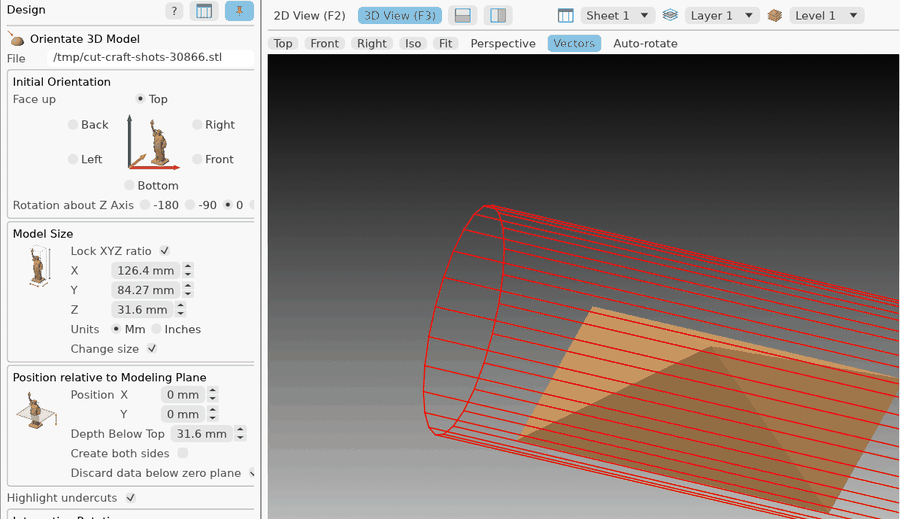
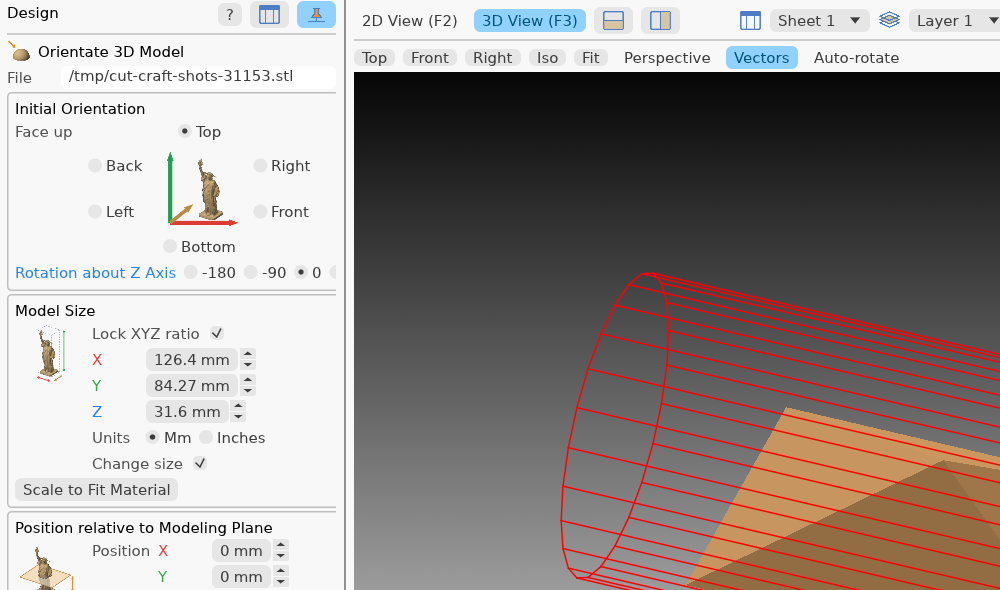
feat: Scale to Fit Material sits under Change size in Model Size
The button moves from the foot of Import 3D Model's form into the Model Size
section, right under the Change size tick that unlocks it. Still greyed until
Change size is ticked. Help page and its picture updated.

Claude-Session: https://claude.ai/code/session_01Uqr4BJ5ueU3wpdeD68Mnmg

diff --git a/crates/app/src/app/command_form.rs b/crates/app/src/app/command_form.rs
@@ -101,7 +101,10 @@ impl CutCraftApp {
             }
         };
         let stock = form_stock(&self.doc, &open.params, units, bed(&self.machines));
+        // Scale to Fit Material is pressed inside Model Size, and worked out once it is drawn
+        let fit_asked = std::cell::Cell::new(false);
         let group_end = |ui: &mut egui::Ui, group: &str, params: &mut Value| {
+            fit_asked.set(fit_asked.get() | scale_to_fit_button(ui, group, params));
             super::tabs::group_end(ui, group, params, stock)
                 | super::placement::section_end(ui, group, params, room)
                 | super::placement::reset_end(ui, group, params)
@@ -119,6 +122,9 @@ impl CutCraftApp {
         // Trace Bitmap's settings are in its trace window, beside the preview
         if open.id != "trace_bitmap" {
             open.dirty |= show_form(ui, open, &look, &self.doc.job, &icon);
+            if fit_asked.get() {
+                open.dirty |= scale_to_fit(open, &self.doc.job);
+            }
         }
         open.dirty |= listed.get();
         self.form_extras(ui, form_id);
@@ -680,33 +686,37 @@ pub(super) fn show_form(
     // what the pointer was on last frame; the fields note it again this frame
     form::forget_help(ui.ctx());
     let changed = form::show(ui, &open.fields, &mut open.params, look);
-    changed
-        | align_in_material(ui, open, job, icon)
-        | update_undercuts(ui, open)
-        | scale_to_fit(ui, open, job)
+    changed | align_in_material(ui, open, job, icon) | update_undercuts(ui, open)
 }
 
-/// Import 3D Model's Scale to Fit Material, the form's last choice: the model scaled once
-/// to be as big as the material allows, turned as it is now, and kept at that scale while
-/// it is turned after. Greyed until Change size is ticked, so the size never changes
-/// unseen; true when clicked.
-pub(super) fn scale_to_fit(
-    ui: &mut egui::Ui,
-    open: &mut OpenForm,
-    job: &cut_craft_core::document::Job,
-) -> bool {
-    if open.id != "orientate_3d_model" {
+/// The Model Size section that holds Import 3D Model's Scale to Fit Material.
+pub(super) const SIZE_SECTION: &str = "Model Size";
+
+/// Import 3D Model's Scale to Fit Material, at the foot of Model Size just under the
+/// Change size tick that unlocks it. Greyed until Change size is ticked, so the size never
+/// changes unseen; true when clicked, for [`scale_to_fit`] to do once the form is drawn.
+pub(super) fn scale_to_fit_button(ui: &mut egui::Ui, section: &str, params: &Value) -> bool {
+    if section != SIZE_SECTION {
         return false;
     }
-    let unlocked = open.params["size"]["change_size"]
-        .as_bool()
-        .unwrap_or(false);
-    let clicked = ui
-        .add_enabled(unlocked, egui::Button::new(tr!("scale-to-fit")))
+    let Some(unlocked) = params
+        .get("size")
+        .and_then(|s| s.get("change_size"))
+        .and_then(Value::as_bool)
+    else {
+        return false;
+    };
+    ui.add_enabled(unlocked, egui::Button::new(tr!("scale-to-fit")))
         .on_hover_hint(tr!("scale-to-fit.tooltip"))
         .on_disabled_hover_text(tr!("scale-to-fit.disabled"))
-        .clicked();
-    if !clicked {
+        .clicked()
+}
+
+/// Import 3D Model's Scale to Fit Material, once its button is pressed: the model scaled
+/// once to be as big as the material allows, turned as it is now, and kept at that scale
+/// while it is turned after. True when the size changed.
+pub(super) fn scale_to_fit(open: &mut OpenForm, job: &cut_craft_core::document::Job) -> bool {
+    if open.id != "orientate_3d_model" {
         return false;
     }
     let doc = cut_craft_core::document::Document {

diff --git a/crates/app/src/app/tests/rotary.rs b/crates/app/src/app/tests/rotary.rs
@@ -79,9 +79,28 @@ fn an_imported_model_shows_whole_on_the_bed_sized_in_three_with_the_rotary_choic
     // the placing is on the same page, Center model left to the alignment buttons
     assert!(h.scroll_to(over, "Depth Below Top").is_some());
     assert!(h.text_at("Center model").is_none());
+    // Scale to Fit Material sits in Model Size, just under the Change size tick that
+    // unlocks it, before the next section starts
     let fit = h.scroll_to(over, "Scale to Fit Material").unwrap();
-    let undercuts = h.text_at("Update Undercuts").unwrap();
-    assert!(fit.y > undercuts.y, "the last choice on the form");
+    let tick = h.text_at("Change size").unwrap();
+    let next = h.text_at("Position relative to Modeling Plane").unwrap();
+    assert!(
+        tick.y < fit.y && fit.y < next.y,
+        "beside Change size: {tick:?} {fit:?} {next:?}"
+    );
+    // greyed while the size is locked: a click there leaves the size alone
+    let scale = |h: &Harness| h.app.form.as_ref().unwrap().params["size"]["scale"].clone();
+    let before = scale(&h);
+    h.click(fit, Modifiers::NONE);
+    h.frame(vec![]);
+    assert_eq!(scale(&h), before, "locked until Change size is ticked");
+    // ticked, the same button scales the model to the material once
+    h.app.form.as_mut().unwrap().params["size"]["change_size"] = Value::Bool(true);
+    h.frame(vec![]);
+    let fit = h.text_at("Scale to Fit Material").unwrap();
+    h.click(fit, Modifiers::NONE);
+    h.frame(vec![]);
+    assert_ne!(scale(&h), before, "scaled to fit the material");
     for label in ["Imported model type", "Offered"] {
         assert_eq!(h.text_at(label), None, "{label} is not shown");
     }

diff --git a/crates/help/pages/tools/orientate_3d_model.md b/crates/help/pages/tools/orientate_3d_model.md
@@ -101,19 +101,20 @@ Material button again to go back to lining it up.
 A model comes in at the size its file says. Its size is **locked**, so turning it or
 nudging a setting never resizes it without you knowing:
 
-1. Under **Model Size**, tick **Change size**. Until you do, X, Y, Z and **Lock XYZ
-   ratio** are greyed out, and so is the button at the foot of the form.
+1. Under **Model Size**, tick **Change size**. Until you do, X, Y, Z, **Lock XYZ ratio**
+   and the **Scale to Fit Material** button just under the tick are greyed out (point at
+   the button and it says to tick Change size first).
 2. Either type a new **X**, **Y** or **Z** (with Lock XYZ ratio ticked the other two
-   follow), or press **Scale to Fit Material**, the last button on the form. It makes the
-   model as big as the material allows (on a rotary job, as long as the job and out to
-   the material's radius), turned the way it is now.
+   follow), or press **Scale to Fit Material**, right under **Change size** in the same
+   box. It makes the model as big as the material allows (on a rotary job, as long as the
+   job and out to the material's radius), turned the way it is now.
 3. Untick **Change size** to lock the new size in.
 
 Either way the model is scaled **once**. Turn it afterwards with **Interactive Rotation**
 and it keeps that size: it is not fitted again at every step of the turn. If a turn makes
 it poke out of the material, press **Scale to Fit Material** again.
 
-![A rotary import: Change size ticked under Model Size and the model scaled to fit, shown round the axis inside the material](pictures/rotary-import-scale-to-fit.png)
+![A rotary import: Change size ticked under Model Size, Scale to Fit Material just under it, and the model scaled to fit, shown round the axis inside the material](pictures/rotary-import-scale-to-fit.png)
 
 ## When it doesn't fit
 
@@ -135,8 +136,8 @@ largest gap that fits.
 
 On a [rotary](help:job_setup) job, a **Full** 3D model is a real 3D shape in space: its
 length along the job's axis, the axis through its middle (move it off with **Rotation Axis
-Movement**). It comes in at its file's size; press **Scale to Fit Material** (above) to fill
-the material.
+Movement**). It comes in at its file's size; press **Scale to Fit Material** under **Model Size**
+(above) to fill the material.
 
 The 3D view always shows it exactly as it is, both while you import it and after you press
 **Import**: the same model, in the same place, inside the outline of the material.
